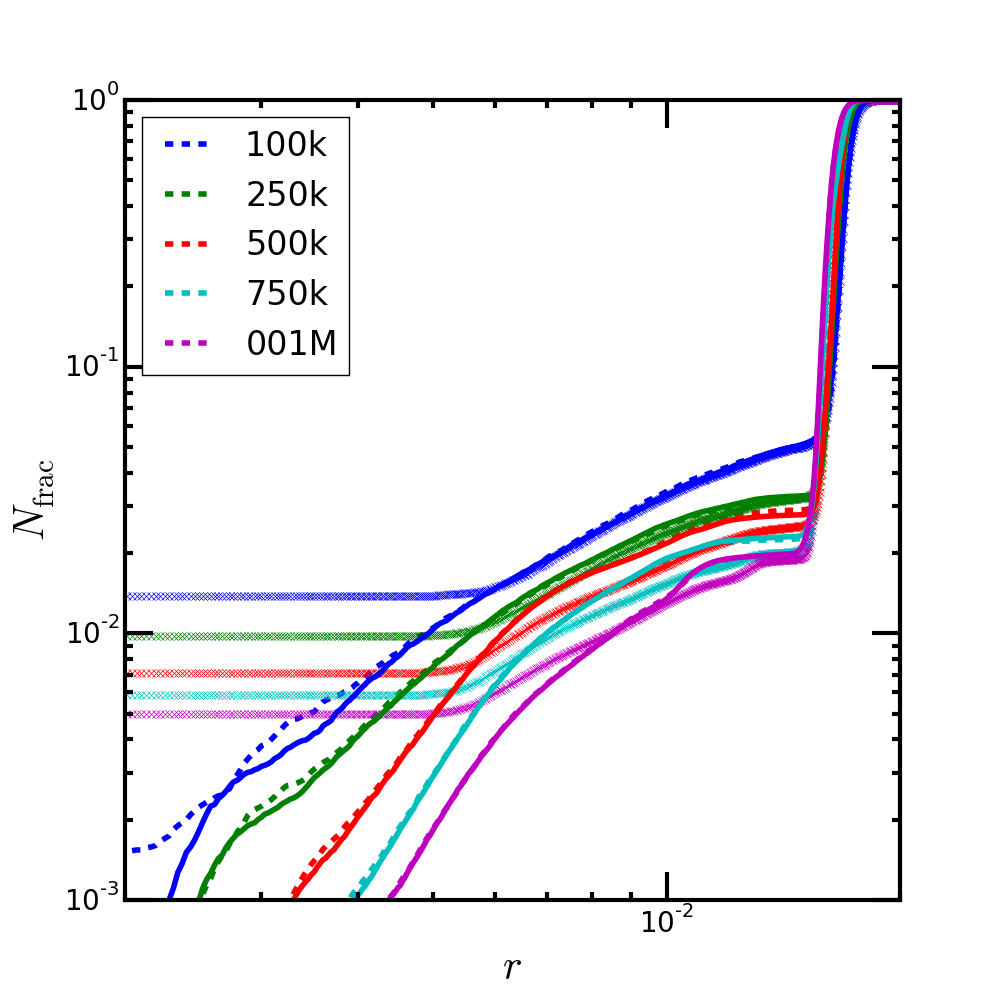
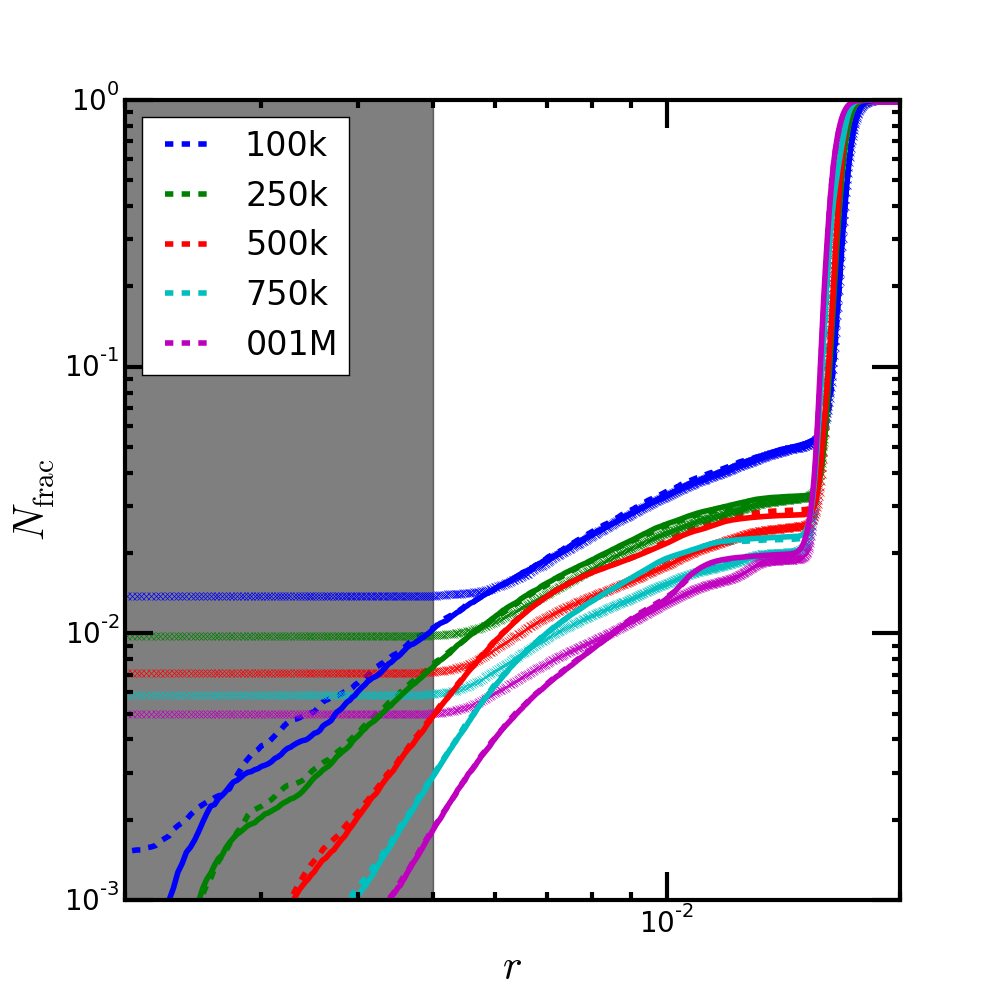
added shaded region to plot

Changed region(s): [[0.124, 0.093, 0.434, 0.899]]

diff --git a/1-SanityCheck/Racc_5e-3/M_inside_r/plot_M_inside_r_all_resolutions.py b/1-SanityCheck/Racc_5e-3/M_inside_r/plot_M_inside_r_all_resolutions.py
@@ -73,6 +73,8 @@ for res, error,color in zip(['100k','250k','500k','750k','001M'], [0.0137525, 0.
 	label_this= res#+" particles, $t = "+str(snap)+"$"
 	imgplot = pl.loglog(X[:,0], M_cumulative,color, linewidth = 0.2*FontSize)
 
+#plot shaded region inside r_acc
+pl.axvspan(1e-3, 5e-3, facecolor='k', alpha=0.5)
 
 #Plot the simulations without accretion radius:
 for res, color in zip(['100k','250k','500k','750k','001M'],['b-','g-','r-','c-','m-']):
